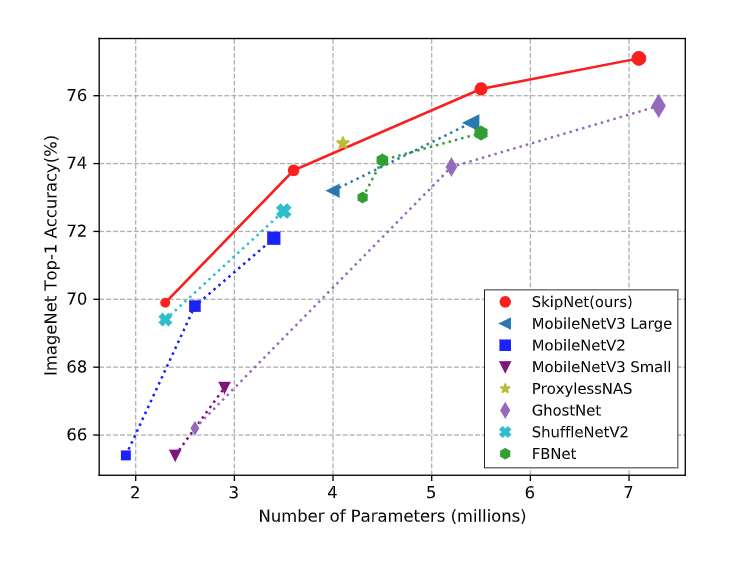
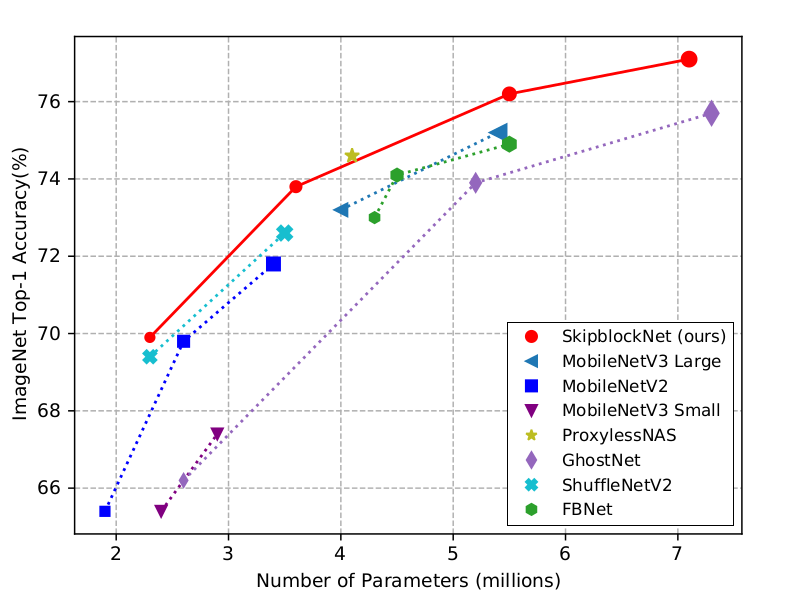
fixes in model script

diff --git a/skipblocknet.py b/skipblocknet.py
@@ -150,12 +150,12 @@ class SkipBlock(nn.Module):
             return self.core_block(x)
 
 
-class SkipNet(nn.Module):
+class SkipblockNet(nn.Module):
     """
-    SkipNet model introduced in "Bias Loss for Mobile Neural Networks"
+    SkipblockNet model introduced in "Bias Loss for Mobile Neural Networks"
     """
     def __init__(self, cfgs,cfgs_skip,num_classes, mode,  width_mult=1.):
-        super(SkipNet, self).__init__()
+        super(SkipblockNet, self).__init__()
 
         # configurations of inverted residual and skip blocks
         self.cfgs = cfgs
@@ -253,9 +253,9 @@ class SkipNet(nn.Module):
                 m.bias.data.zero_()
 
 
-def skipnet(num_classes, mode='large', width=1.0):
+def skipblocknet(num_classes, mode='large', width=1.0):
     """
-    Constructs a SkipNet model,with
+    Constructs a SkipblockNet model,with
      cfgs - default configurations for the inverted residual blocks
      cfgs_skip - default configurations for the skip blocks
     """
@@ -284,4 +284,4 @@ def skipnet(num_classes, mode='large', width=1.0):
         [16, 6, 40, 5, 1, 28],
         [16, 2.3, 80, 3, 1, 14]
     ]
-    return SkipNet(cfgs, cfgs_skip, num_classes, mode=mode, width_mult=width)
+    return SkipblockNet(cfgs, cfgs_skip, num_classes, mode=mode, width_mult=width)

diff --git a/validate.py b/validate.py
@@ -4,7 +4,7 @@ import torch
 from collections import OrderedDict
 from utils import load_checkpoint, accuracy, AverageMeter, data_loader
 
-from skipnet import skipnet
+from skipblocknet import skipblocknet
 
 torch.backends.cudnn.benchmark = True
 
@@ -13,12 +13,12 @@ parser.add_argument('--data', required=True, type=str, help='path to ImageNet va
 parser.add_argument('--batch_size', default=256, type=int, help='mini-batch size')
 parser.add_argument('--num_classes', type=int, default=1000, help='Number classes in dataset')
 parser.add_argument('--log_freq', default=10, type=int, help='batch logging frequency')
-parser.add_argument('--checkpoint', default='skipnet-m.pth', type=str, help='path to the checkpoint ')
+parser.add_argument('--checkpoint', default='skipblocknet-m.pth', type=str, help='path to the checkpoint ')
 
 
 def validate(args):
 
-    model = skipnet(num_classes=args.num_classes)
+    model = skipblocknet(num_classes=args.num_classes)
 
     device = 'cuda' if torch.cuda.is_available() else 'cpu'
     model = model.to(device)
